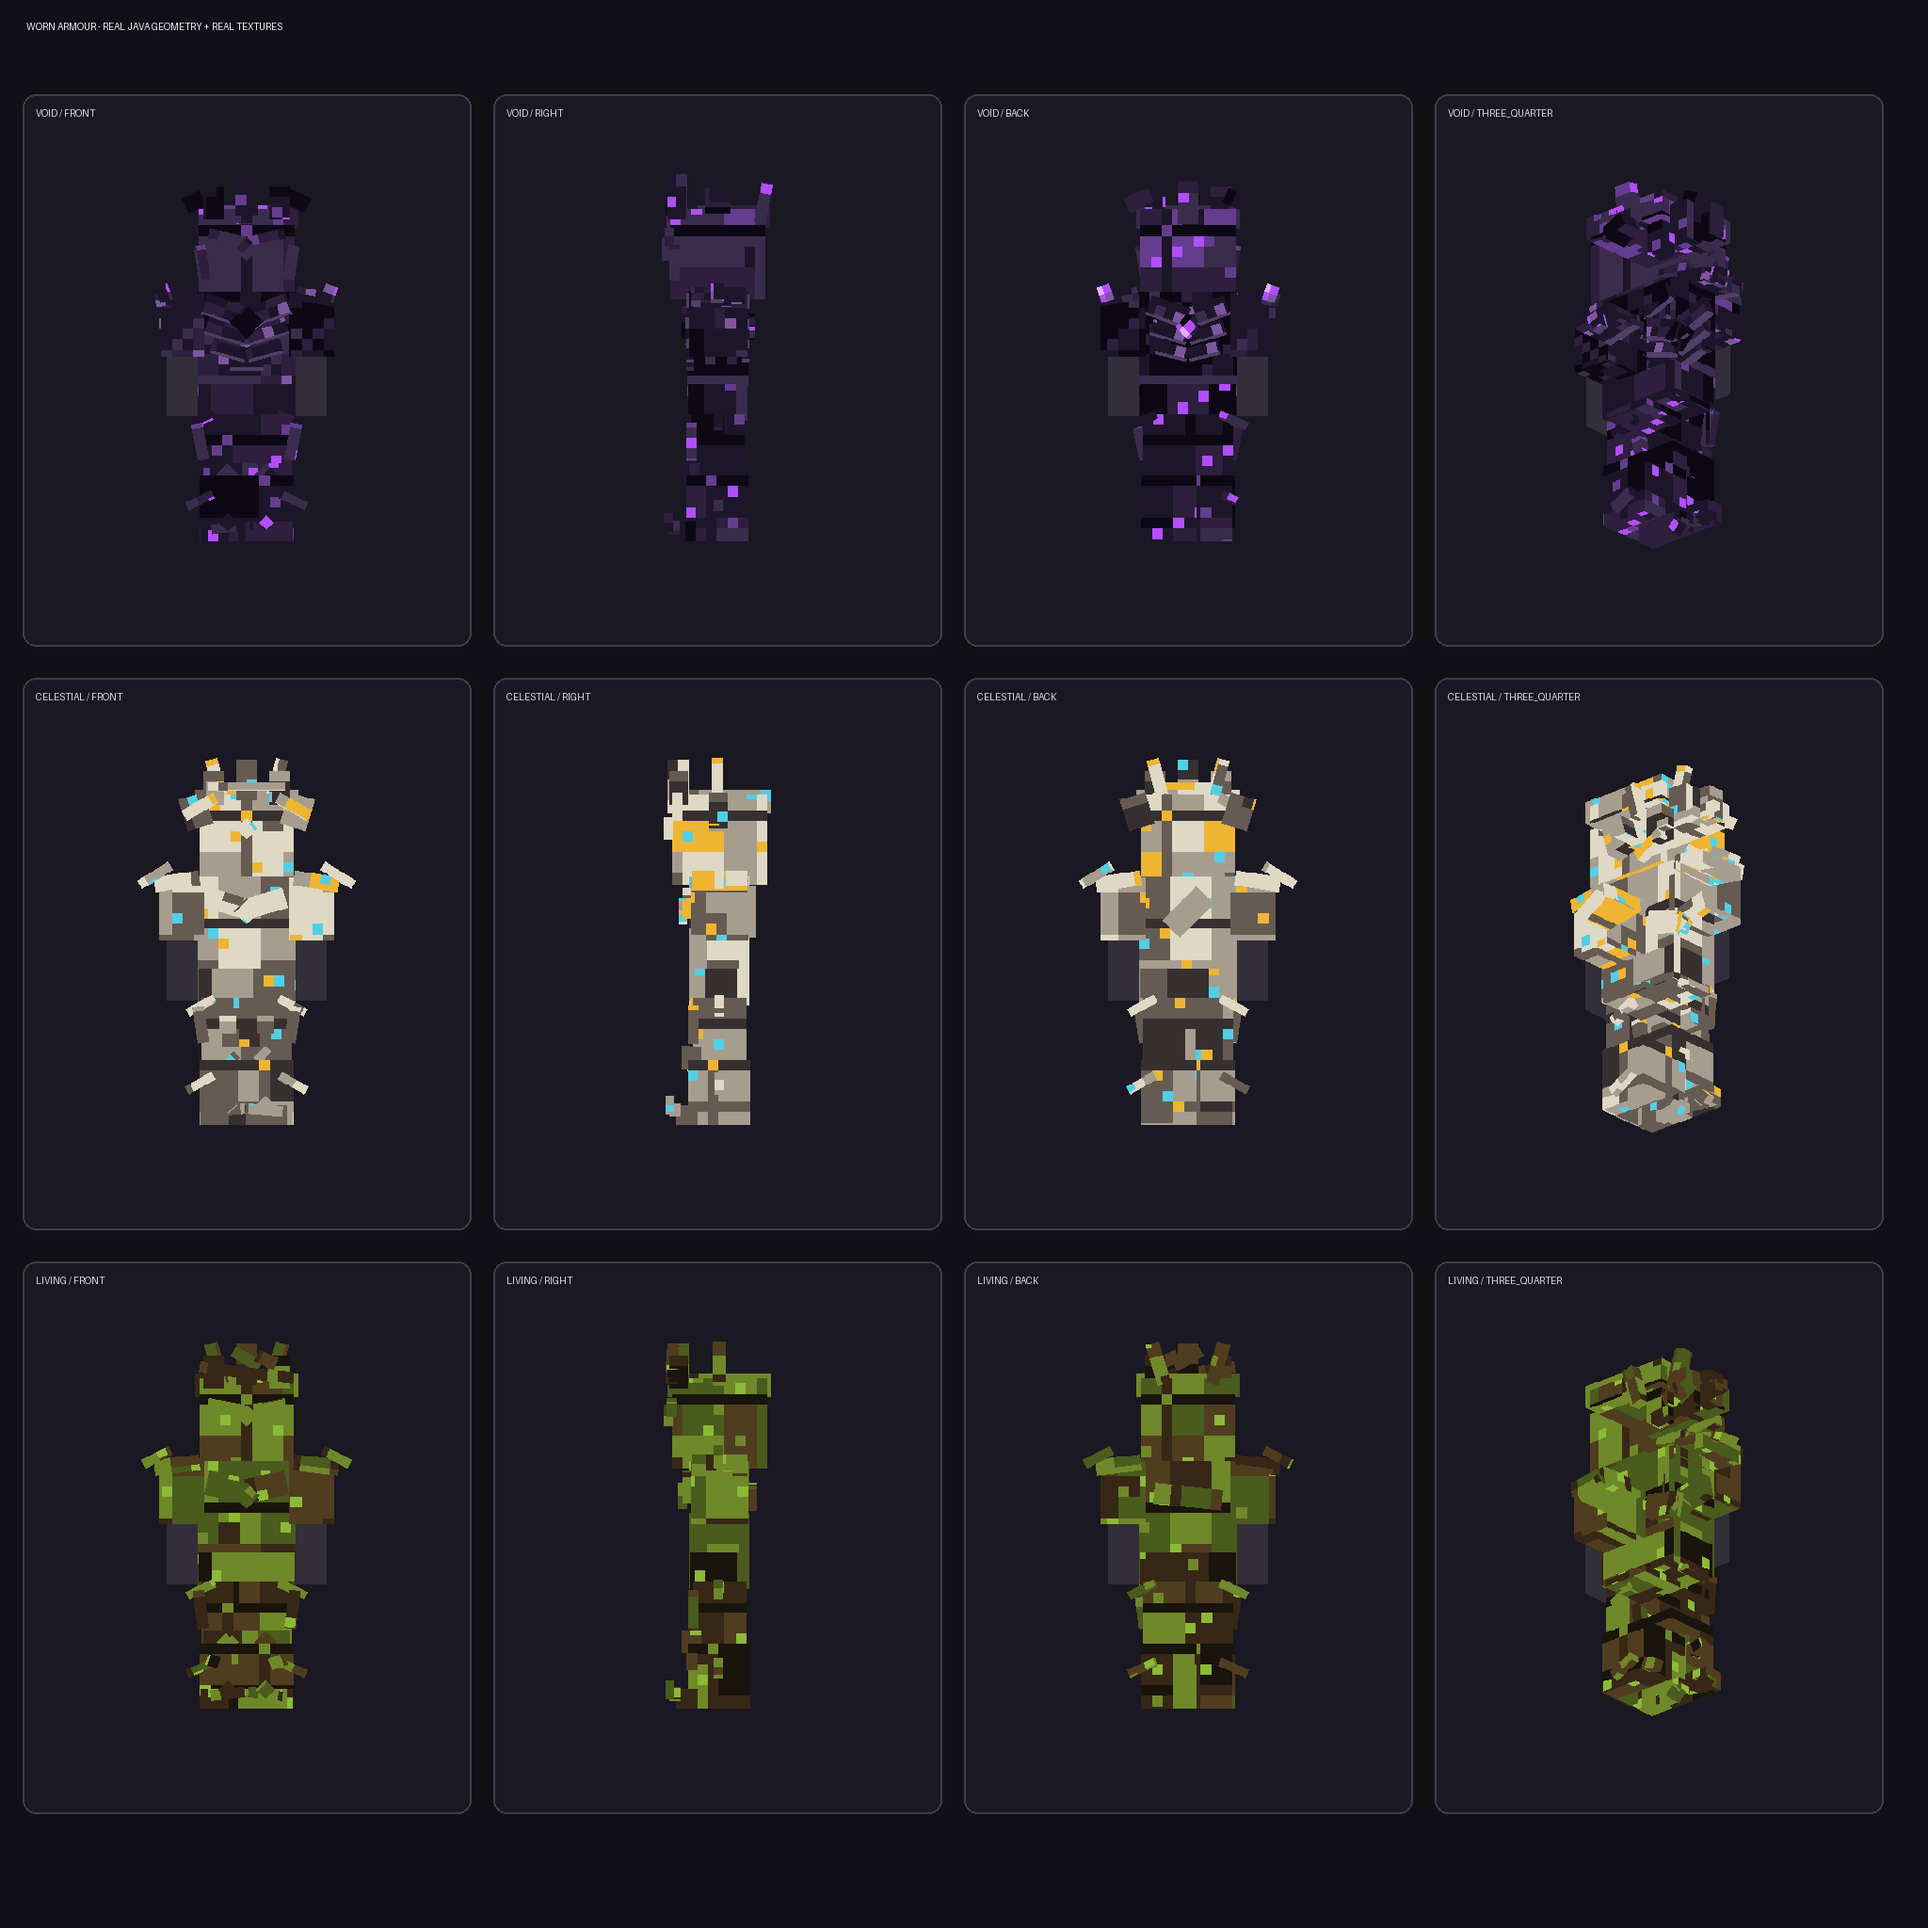
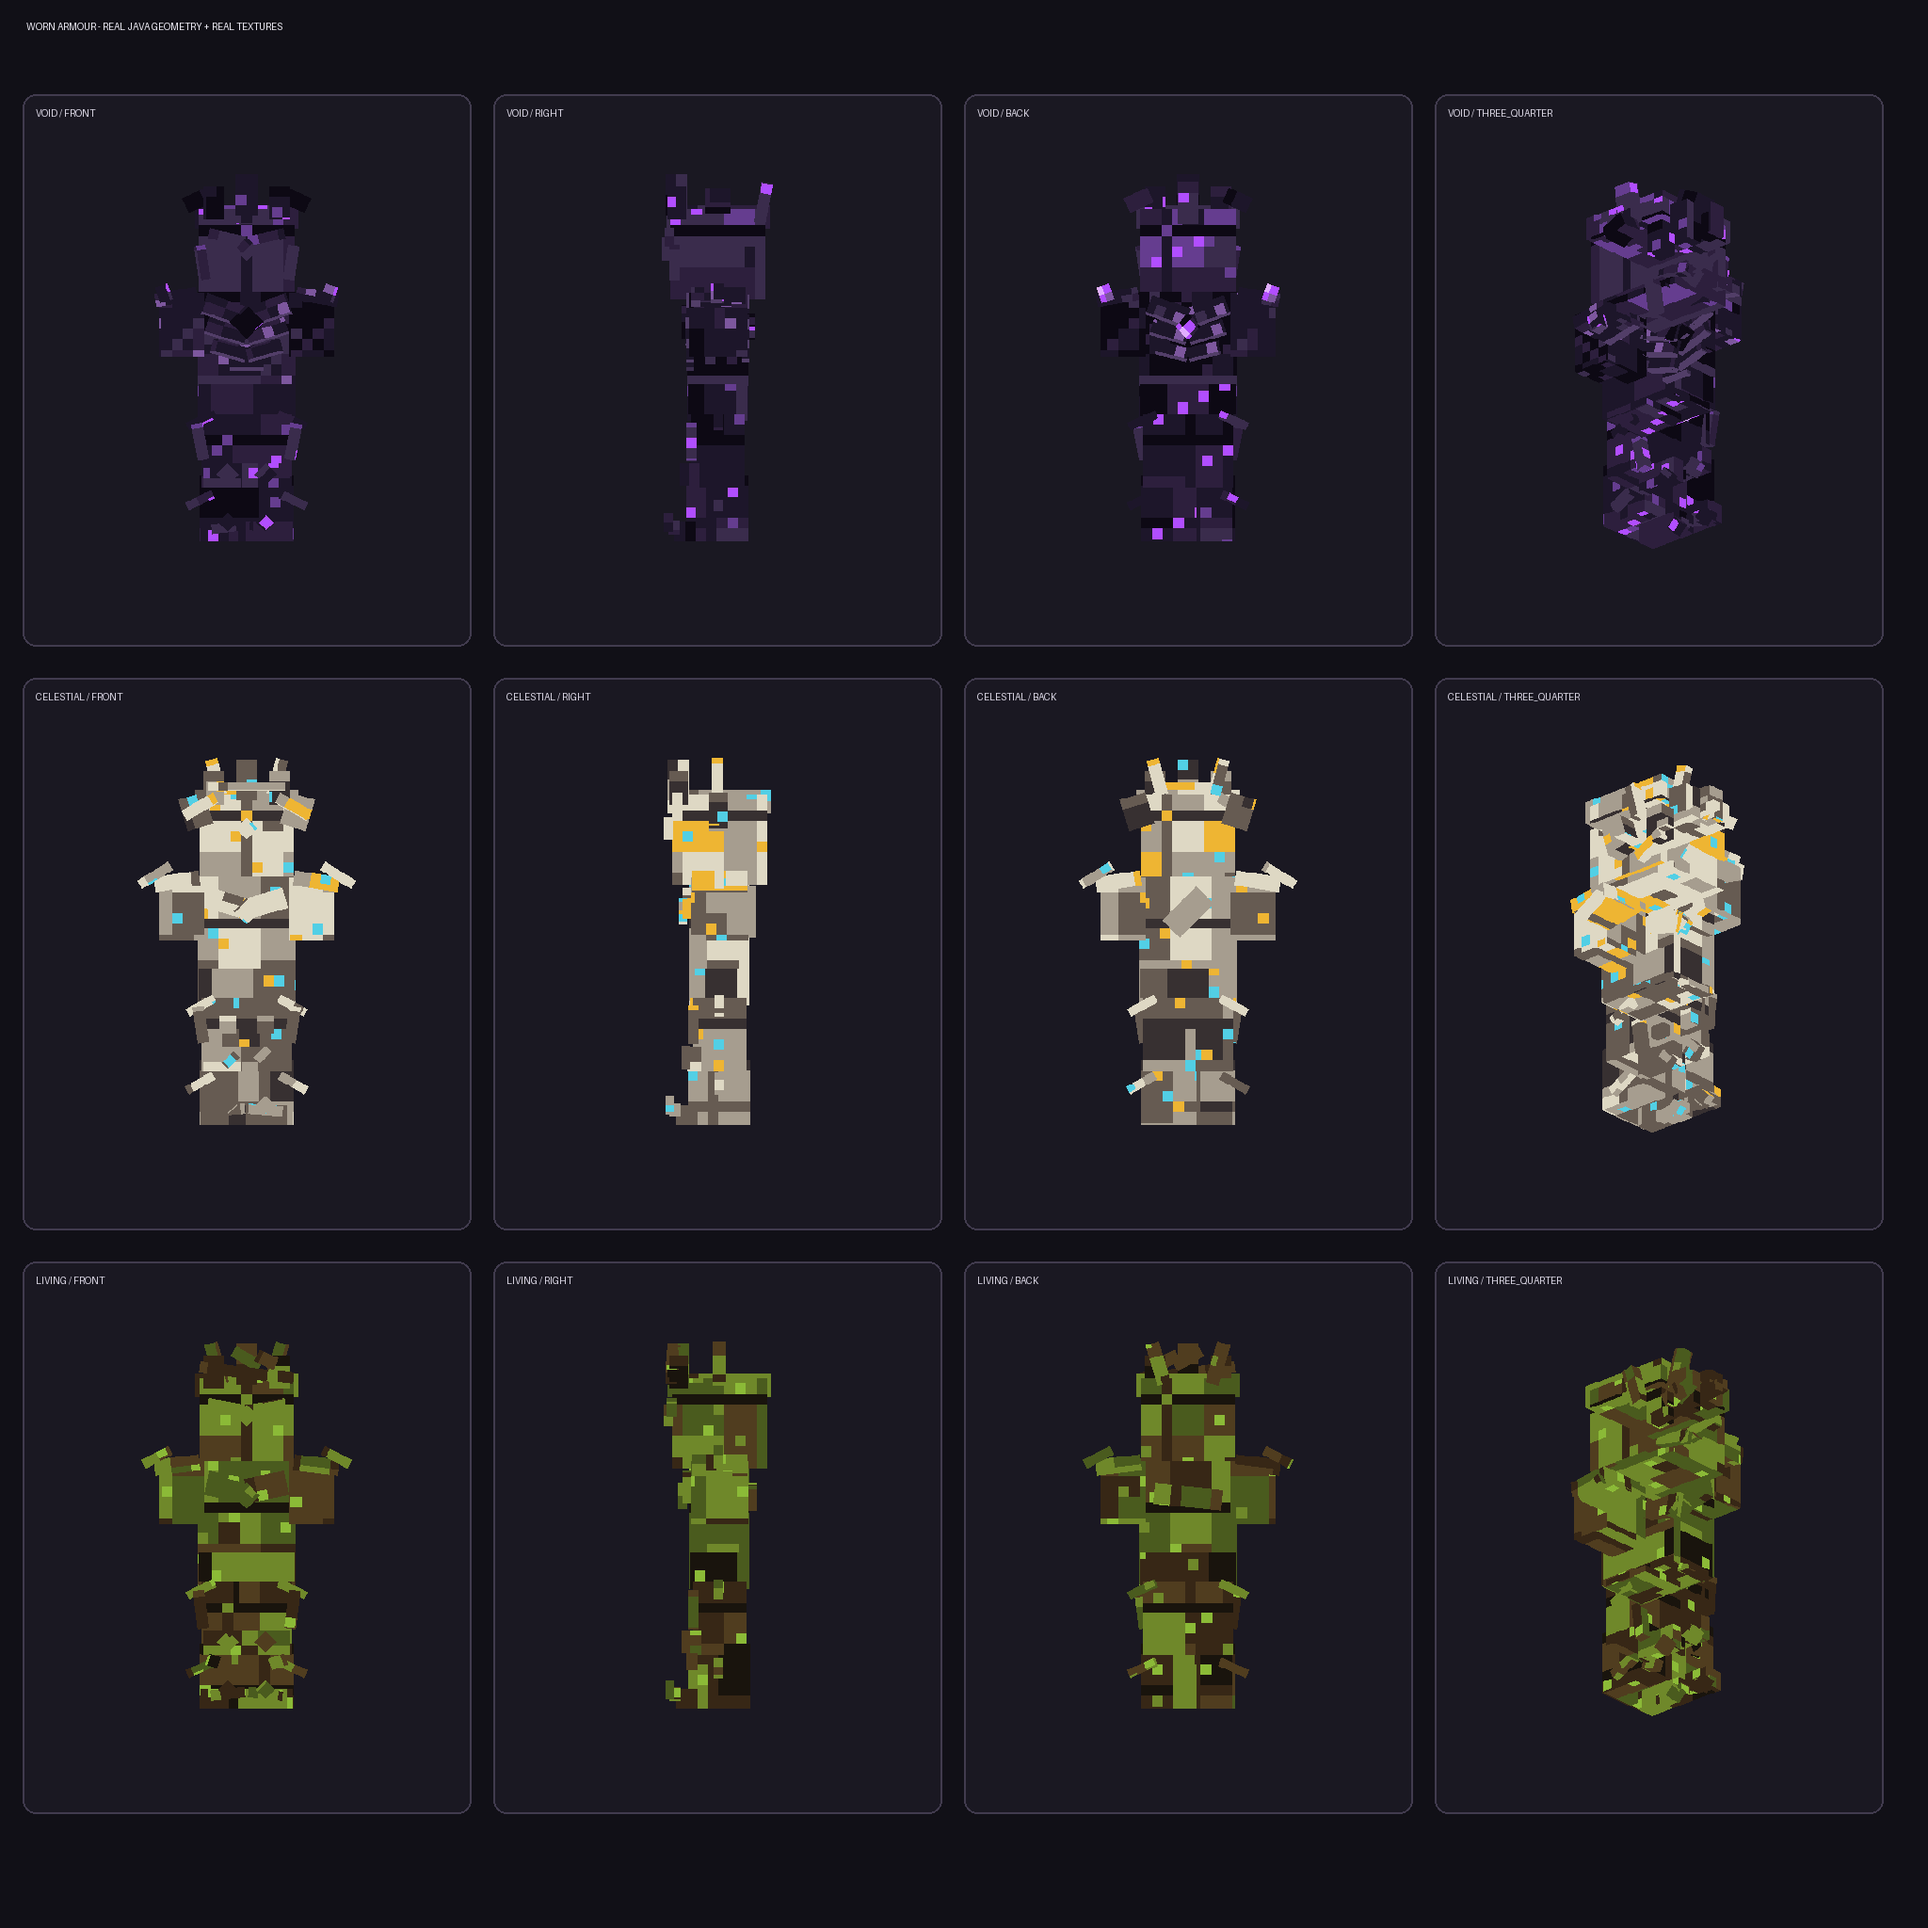
fix: depth-sort complete armour previews

diff --git a/tools/armor_graphics/render_worn_armor.py b/tools/armor_graphics/render_worn_armor.py
@@ -141,6 +141,30 @@ def _render_inputs(repo_root: Path, family: str, slot: str):
     return result
 
 
+def _combined_set_inputs(repo_root: Path, family: str):
+    """Combine the four slot atlases so the whole suit shares one depth pass."""
+    atlas = Image.new("RGBA", (128, 64 * len(SLOTS)), (0, 0, 0, 0))
+    combined = []
+    for slot_index, slot in enumerate(SLOTS):
+        with Image.open(_texture_path(repo_root, family, slot)) as source:
+            texture = source.convert("RGBA")
+        if texture.size != (128, 64):
+            raise ValueError(f"expected 128x64 armour texture, got {texture.size}")
+        atlas_offset = slot_index * 64
+        atlas.paste(texture, (0, atlas_offset))
+        for cube, matrix in _render_inputs(repo_root, family, slot):
+            shifted_cube = dict(cube)
+            shifted_cube["uv"] = {
+                face_name: {
+                    "uv": [face["uv"][0], face["uv"][1] + atlas_offset],
+                    "uv_size": list(face["uv_size"]),
+                }
+                for face_name, face in cube["uv"].items()
+            }
+            combined.append((shifted_cube, matrix))
+    return combined, atlas
+
+
 def _mannequin_inputs(slot: str):
     definitions = {
         "head": ((-4.0, -8.0, -4.0), (8.0, 8.0, 8.0)),
@@ -206,22 +230,13 @@ def render_set(repo_root: Path, family: str, view: str) -> Image.Image:
     """Render one complete family from the same four runtime item layers."""
     _validate_choice(family, FAMILIES, "family")
     _validate_choice(view, VIEWS, "view")
-    per_slot = {slot: _render_inputs(repo_root, family, slot) for slot in SLOTS}
-    all_cubes = [entry for slot in SLOTS for entry in per_slot[slot]]
+    all_cubes, atlas = _combined_set_inputs(repo_root, family)
     camera = cube_renderer.camera_for(view)
     scale, center = _framing(all_cubes, camera)
     image = cube_renderer.render_cubes(
-        _mannequin_inputs("set"), Image.new("RGBA", (1, 1), (50, 46, 58, 255)), camera,
-        canvas_size=(512, 512), pixels_per_unit=scale, center_world=center,
+        all_cubes, atlas, camera, canvas_size=(512, 512),
+        pixels_per_unit=scale, center_world=center,
     )
-    for slot in SLOTS:
-        with Image.open(_texture_path(repo_root, family, slot)) as source:
-            texture = source.convert("RGBA")
-        layer = cube_renderer.render_cubes(
-            per_slot[slot], texture, camera, canvas_size=(512, 512),
-            pixels_per_unit=scale, center_world=center,
-        )
-        image.alpha_composite(layer)
     return image
 
 

diff --git a/tools/armor_graphics/tests/test_render_worn_armor.py b/tools/armor_graphics/tests/test_render_worn_armor.py
@@ -82,6 +82,23 @@ class WornArmorOfflineRenderContract(unittest.TestCase):
         self.assertEqual("RGBA", sheet.mode)
         self.assertIsNotNone(sheet.getbbox())
 
+    def test_complete_set_uses_one_depth_sorted_texture_atlas(self):
+        cubes, atlas = render_worn_armor._combined_set_inputs(ROOT, "void")
+        expected_count = sum(
+            len(render_worn_armor._render_inputs(ROOT, "void", slot))
+            for slot in render_worn_armor.SLOTS
+        )
+        self.assertEqual(expected_count, len(cubes))
+        self.assertEqual((128, 64 * len(render_worn_armor.SLOTS)), atlas.size)
+        for slot_index, slot in enumerate(render_worn_armor.SLOTS):
+            names = {cube["name"] for cube, _matrix in render_worn_armor._render_inputs(ROOT, "void", slot)}
+            slot_cubes = [cube for cube, _matrix in cubes if cube["name"] in names]
+            self.assertTrue(slot_cubes)
+            for cube in slot_cubes:
+                for face in cube["uv"].values():
+                    self.assertGreaterEqual(face["uv"][1], slot_index * 64)
+                    self.assertLessEqual(face["uv"][1] + face["uv_size"][1], (slot_index + 1) * 64)
+
 
 if __name__ == "__main__":
     unittest.main()
